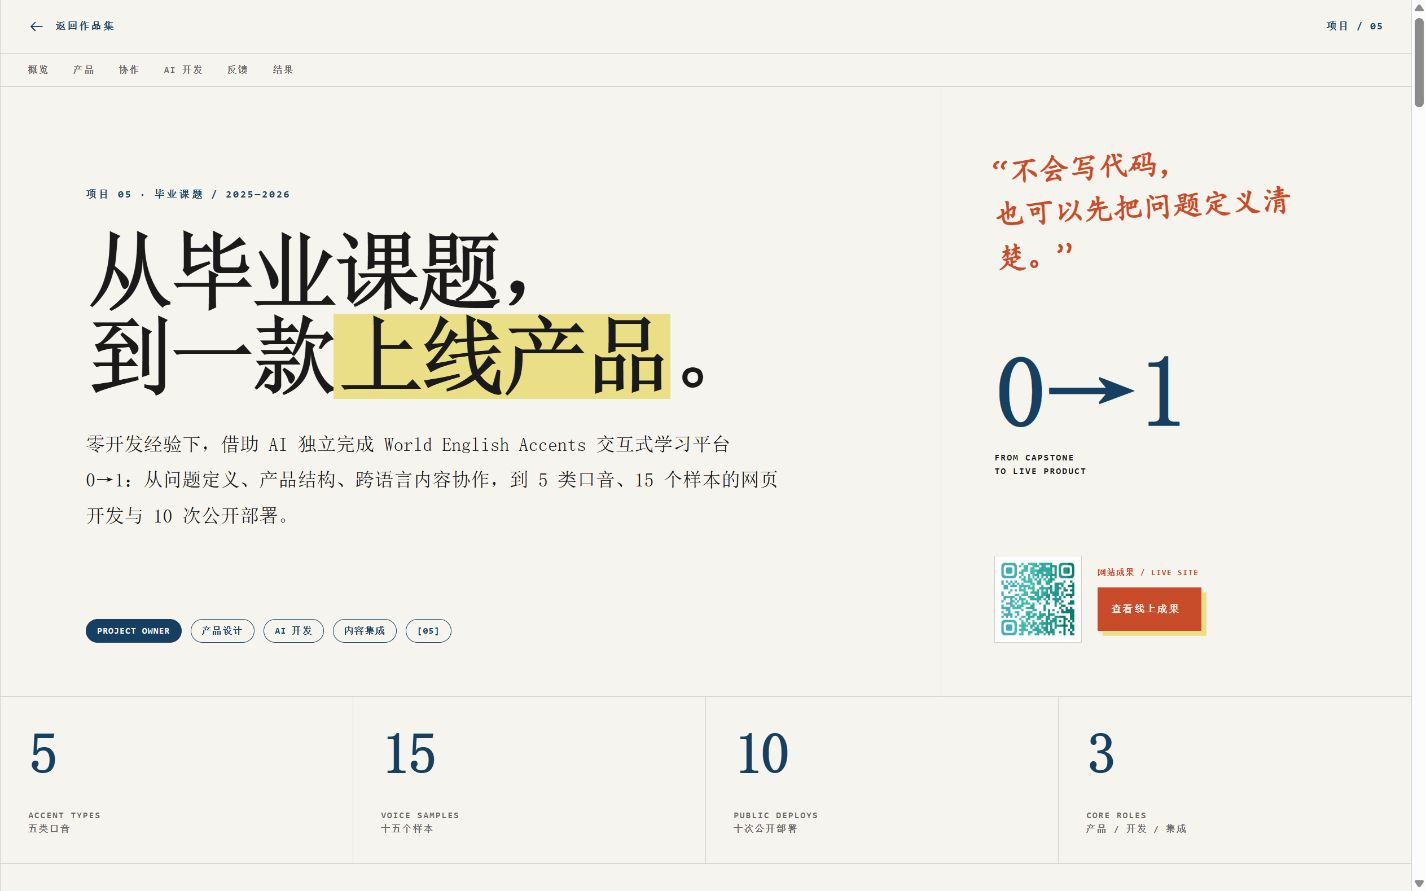
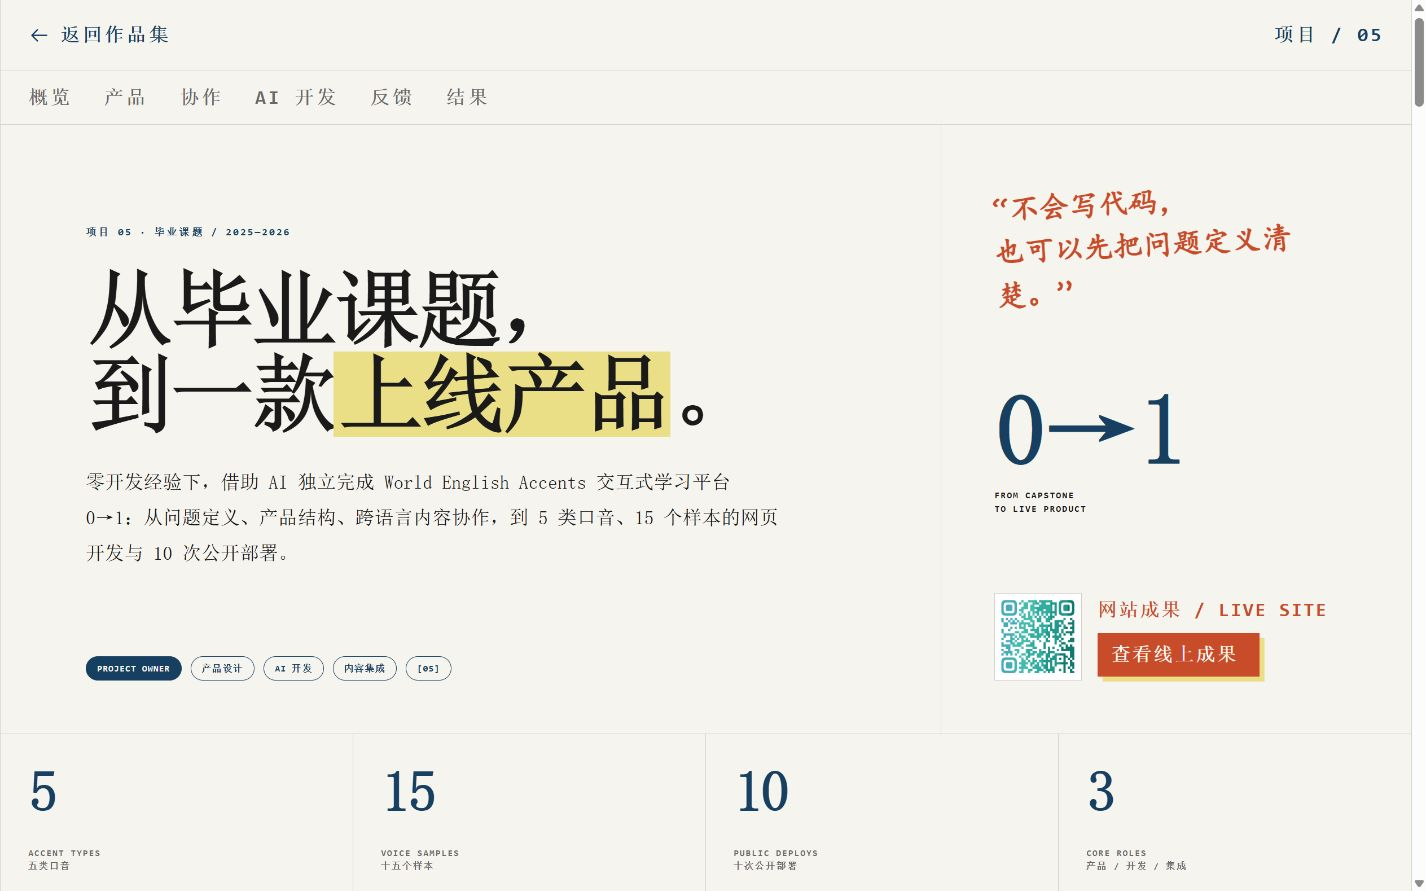
style: enlarge project navigation and live-site CTA

diff --git a/pages/project-05.html b/pages/project-05.html
@@ -18,6 +18,7 @@
             --muted: rgba(26, 26, 26, .64);
             --mono: "SFMono-Regular", Consolas, "Liberation Mono", monospace;
             --serif: "Noto Serif SC", "Songti SC", SimSun, serif;
+            --ui-copy-size: clamp(16px, 1.35vw, 20px);
         }
         * { box-sizing: border-box; }
         html { scroll-behavior: smooth; }
@@ -40,7 +41,7 @@
         .display { font-family: var(--serif); font-weight: 900; letter-spacing: -.055em; }
         .meta { font-family: var(--mono); font-weight: 800; letter-spacing: .14em; text-transform: uppercase; }
         .case-topbar {
-            min-height: 54px;
+            min-height: 72px;
             padding: 0 28px;
             display: flex;
             align-items: center;
@@ -50,17 +51,20 @@
         .back-link, .case-index, .section-nav a {
             color: var(--navy);
             text-decoration: none;
-            font: 800 10px/1 var(--mono);
+            font-family: var(--mono);
+            font-weight: 800;
+            line-height: 1.25;
             letter-spacing: .13em;
         }
-        .back-link { display: inline-flex; align-items: center; gap: 10px; }
-        .back-link iconify-icon { font-size: 17px; }
+        .back-link { display: inline-flex; align-items: center; gap: 10px; font-size: var(--ui-copy-size); }
+        .back-link iconify-icon { font-size: 1.15em; }
+        .case-index { font-size: var(--ui-copy-size); }
         .back-link:hover, .back-link:focus-visible, .section-nav a:hover, .section-nav a:focus-visible { color: var(--red); }
         .section-nav {
-            min-height: 34px;
+            min-height: 54px;
             padding: 0 28px;
             display: flex;
-            gap: 24px;
+            gap: clamp(22px, 2.2vw, 34px);
             align-items: center;
             overflow-x: auto;
             border-bottom: 1px solid var(--rule);
@@ -68,7 +72,7 @@
             scrollbar-width: none;
         }
         .section-nav::-webkit-scrollbar { display: none; }
-        .section-nav a { color: var(--muted); font-size: 9px; }
+        .section-nav a { color: var(--muted); font-size: var(--ui-copy-size); }
         .grid-12 { display: grid; grid-template-columns: repeat(12, minmax(0, 1fr)); }
         .hero-copy {
             grid-column: span 8;
@@ -89,7 +93,7 @@
         .eyebrow { color: var(--navy); font: 800 10px/1.5 var(--mono); letter-spacing: .18em; text-transform: uppercase; }
         .hero-title { max-width: 910px; margin: 28px 0; font-size: clamp(52px, 6vw, 92px); line-height: .99; }
         .highlight { padding-inline: .04em; background: var(--yellow); }
-        .hero-lede { max-width: 700px; margin: 0; font-size: clamp(16px, 1.35vw, 20px); line-height: 1.85; }
+        .hero-lede { max-width: 700px; margin: 0; font-size: var(--ui-copy-size); line-height: 1.85; }
         .hero-tags { margin-top: auto; padding-top: 46px; display: flex; flex-wrap: wrap; gap: 9px; }
         .stamp { padding: 7px 11px; border: 1px solid var(--navy); border-radius: 999px; color: var(--navy); font: 800 9px/1 var(--mono); letter-spacing: .08em; }
         .stamp.solid { color: var(--paper); background: var(--navy); }
@@ -99,7 +103,7 @@
         .qr-wrap { display: grid; grid-template-columns: 88px 1fr; gap: 16px; align-items: center; }
         .qr-wrap img { width: 88px; border: 1px solid var(--rule); }
         .qr-copy { color: var(--muted); font-size: 12px; line-height: 1.55; }
-        .qr-overline { margin-bottom: 9px; color: var(--red); font: 800 8px/1.4 var(--mono); letter-spacing: .12em; }
+        .qr-overline { margin-bottom: 10px; color: var(--red); font-family: var(--mono); font-size: var(--ui-copy-size); font-weight: 800; line-height: 1.35; letter-spacing: .08em; }
         .accent-cta {
             min-height: 44px;
             padding: 10px 13px;
@@ -111,7 +115,10 @@
             background: var(--red);
             border: 1px solid var(--red);
             box-shadow: 5px 5px 0 var(--yellow);
-            font: 800 10px/1 var(--mono);
+            font-family: var(--mono);
+            font-size: var(--ui-copy-size);
+            font-weight: 800;
+            line-height: 1.15;
             letter-spacing: .08em;
             text-decoration: none;
             white-space: nowrap;
@@ -208,6 +215,8 @@
             html { scroll-behavior: auto; }
             .case-shell { border-inline: 0; }
             .case-topbar, .section-nav { padding-inline: 16px; }
+            .case-topbar { min-height: 68px; }
+            .section-nav { min-height: 58px; gap: 22px; }
             .hero-copy, .hero-aside, .section-kicker, .section-main { grid-column: 1 / -1; }
             .hero-copy { min-height: auto; padding: 58px 22px 42px; border-right: 0; border-bottom: 1px solid var(--rule); }
             .hero-aside { min-height: 370px; padding: 34px 22px; }

diff --git a/tests/verify_portfolio.py b/tests/verify_portfolio.py
@@ -226,6 +226,8 @@ def validate_project_05_case_study(html):
     assert "Escape" in html and "prefers-reduced-motion" in html, "project-05 accessible motion"
     assert 'class="accent-cta"' in html, "project-05 prominent live-site CTA"
     assert "查看线上成果" in html and "solar:arrow-up-right-linear" in html, "project-05 CTA guidance"
+    assert '--ui-copy-size: clamp(16px, 1.35vw, 20px)' in html, "project-05 shared large UI copy size"
+    assert html.count('font-size: var(--ui-copy-size)') >= 5, "project-05 enlarged navigation and CTA text"
 
 
 def assert_rejects_mutation(name, expected_message, check):

diff --git a/design-qa.md b/design-qa.md
@@ -33,6 +33,7 @@
 - First pass — P2: 轮播计数使用 `01 / 04`，会与站点页码测试产生歧义。Fix: 改为 `01 — 04`，保留清晰状态表达。Post-fix evidence: 自动化测试通过，轮播状态正确更新。
 - First pass — P2: 手机端章节结构较长，需要确认轮播按钮不会溢出。Fix: 390px 下改为两列控制按钮、状态与放大按钮独占整行。Post-fix evidence: `04-carousel-mobile.png`，页面 scrollWidth 375 小于 viewport 390。
 - CTA refinement — P2: 原“打开 AccentGuide”是普通文本链接，入口辨识度不足。Fix: 改为陶土红高对比按钮，加入“网站成果 / LIVE SITE”、外链图标、淡黄硬投影与 hover/focus 状态。Post-fix evidence: 更新后的 `02-project05-desktop.png`；按钮 105 × 44 px，链接与新标签页行为保持正确。
+- Type-size refinement — 按用户指定，将返回入口、项目编号、章节导航、LIVE SITE 标签与 CTA 统一为和首屏说明文字相同的响应式字号（桌面实测 19.45px）并设为 800 字重。桌面无横向溢出；390px 页面无横向溢出，章节导航保留横向轻扫能力。
 - Final comparison: 无未解决的 P0/P1/P2。Project 05 在保持 04 视觉系统的同时，用 0→1、二维码和学习产品数据形成自己的信息重点。
 - P3: 共用 `assets/js/vendor.js` 仍产生 Tailwind CDN 的既有警告；该文件属于全站公共运行时，不在本次单页修改范围。
 
